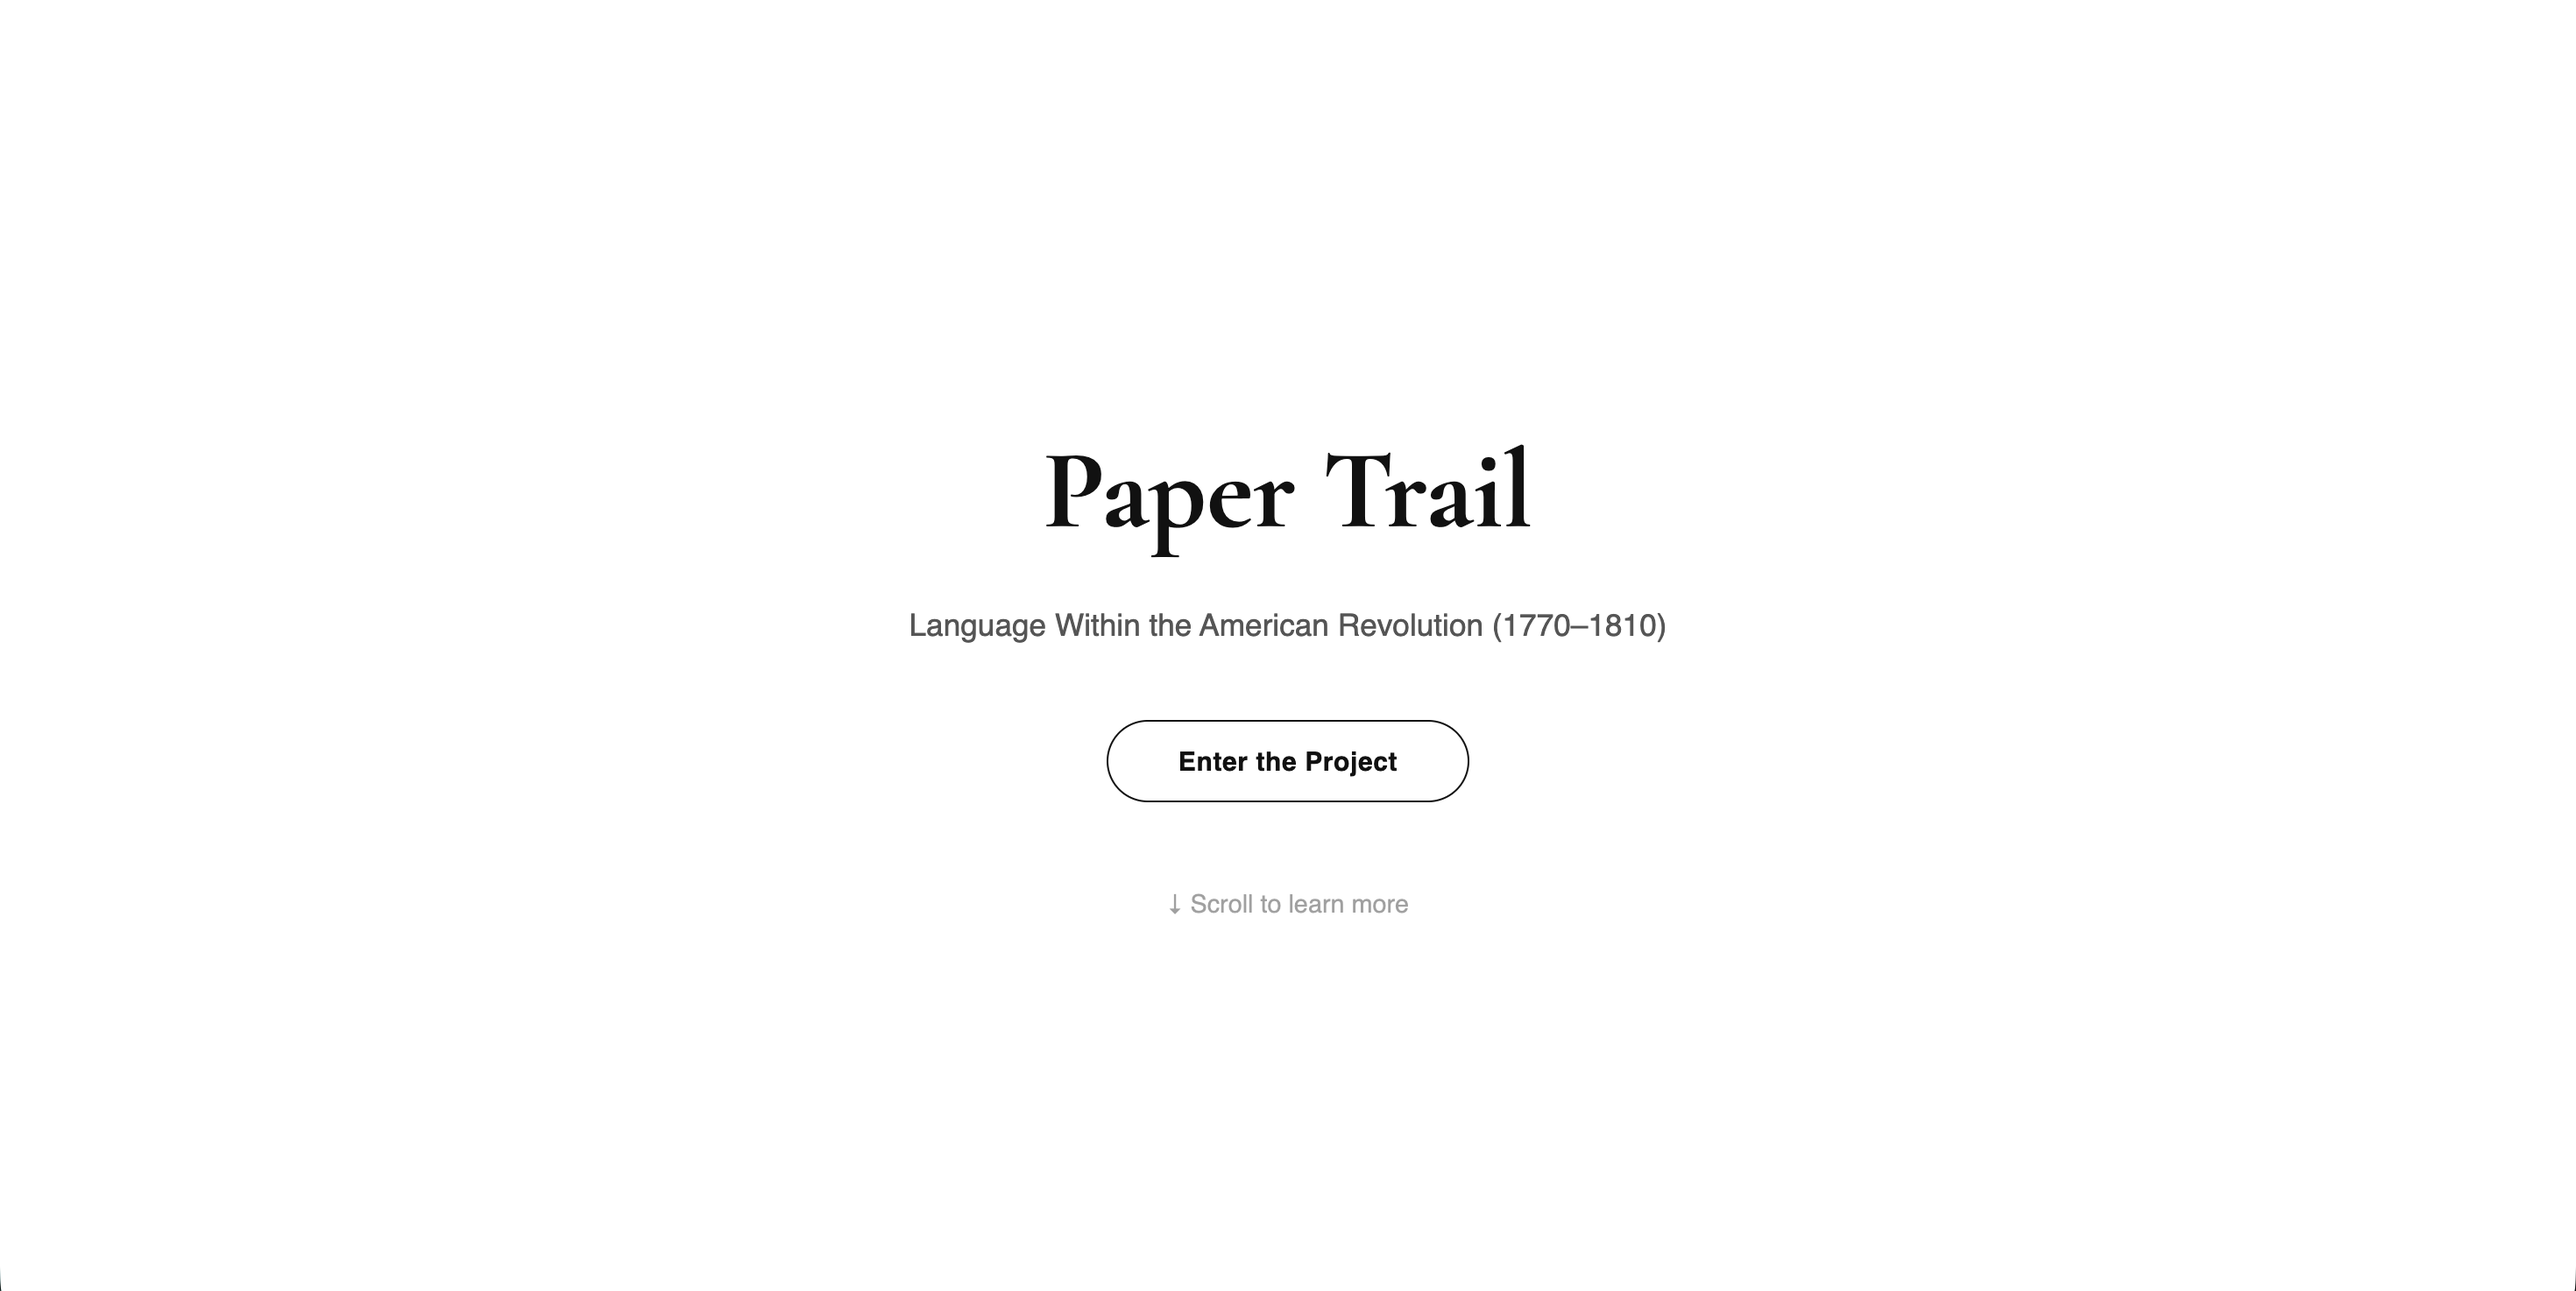
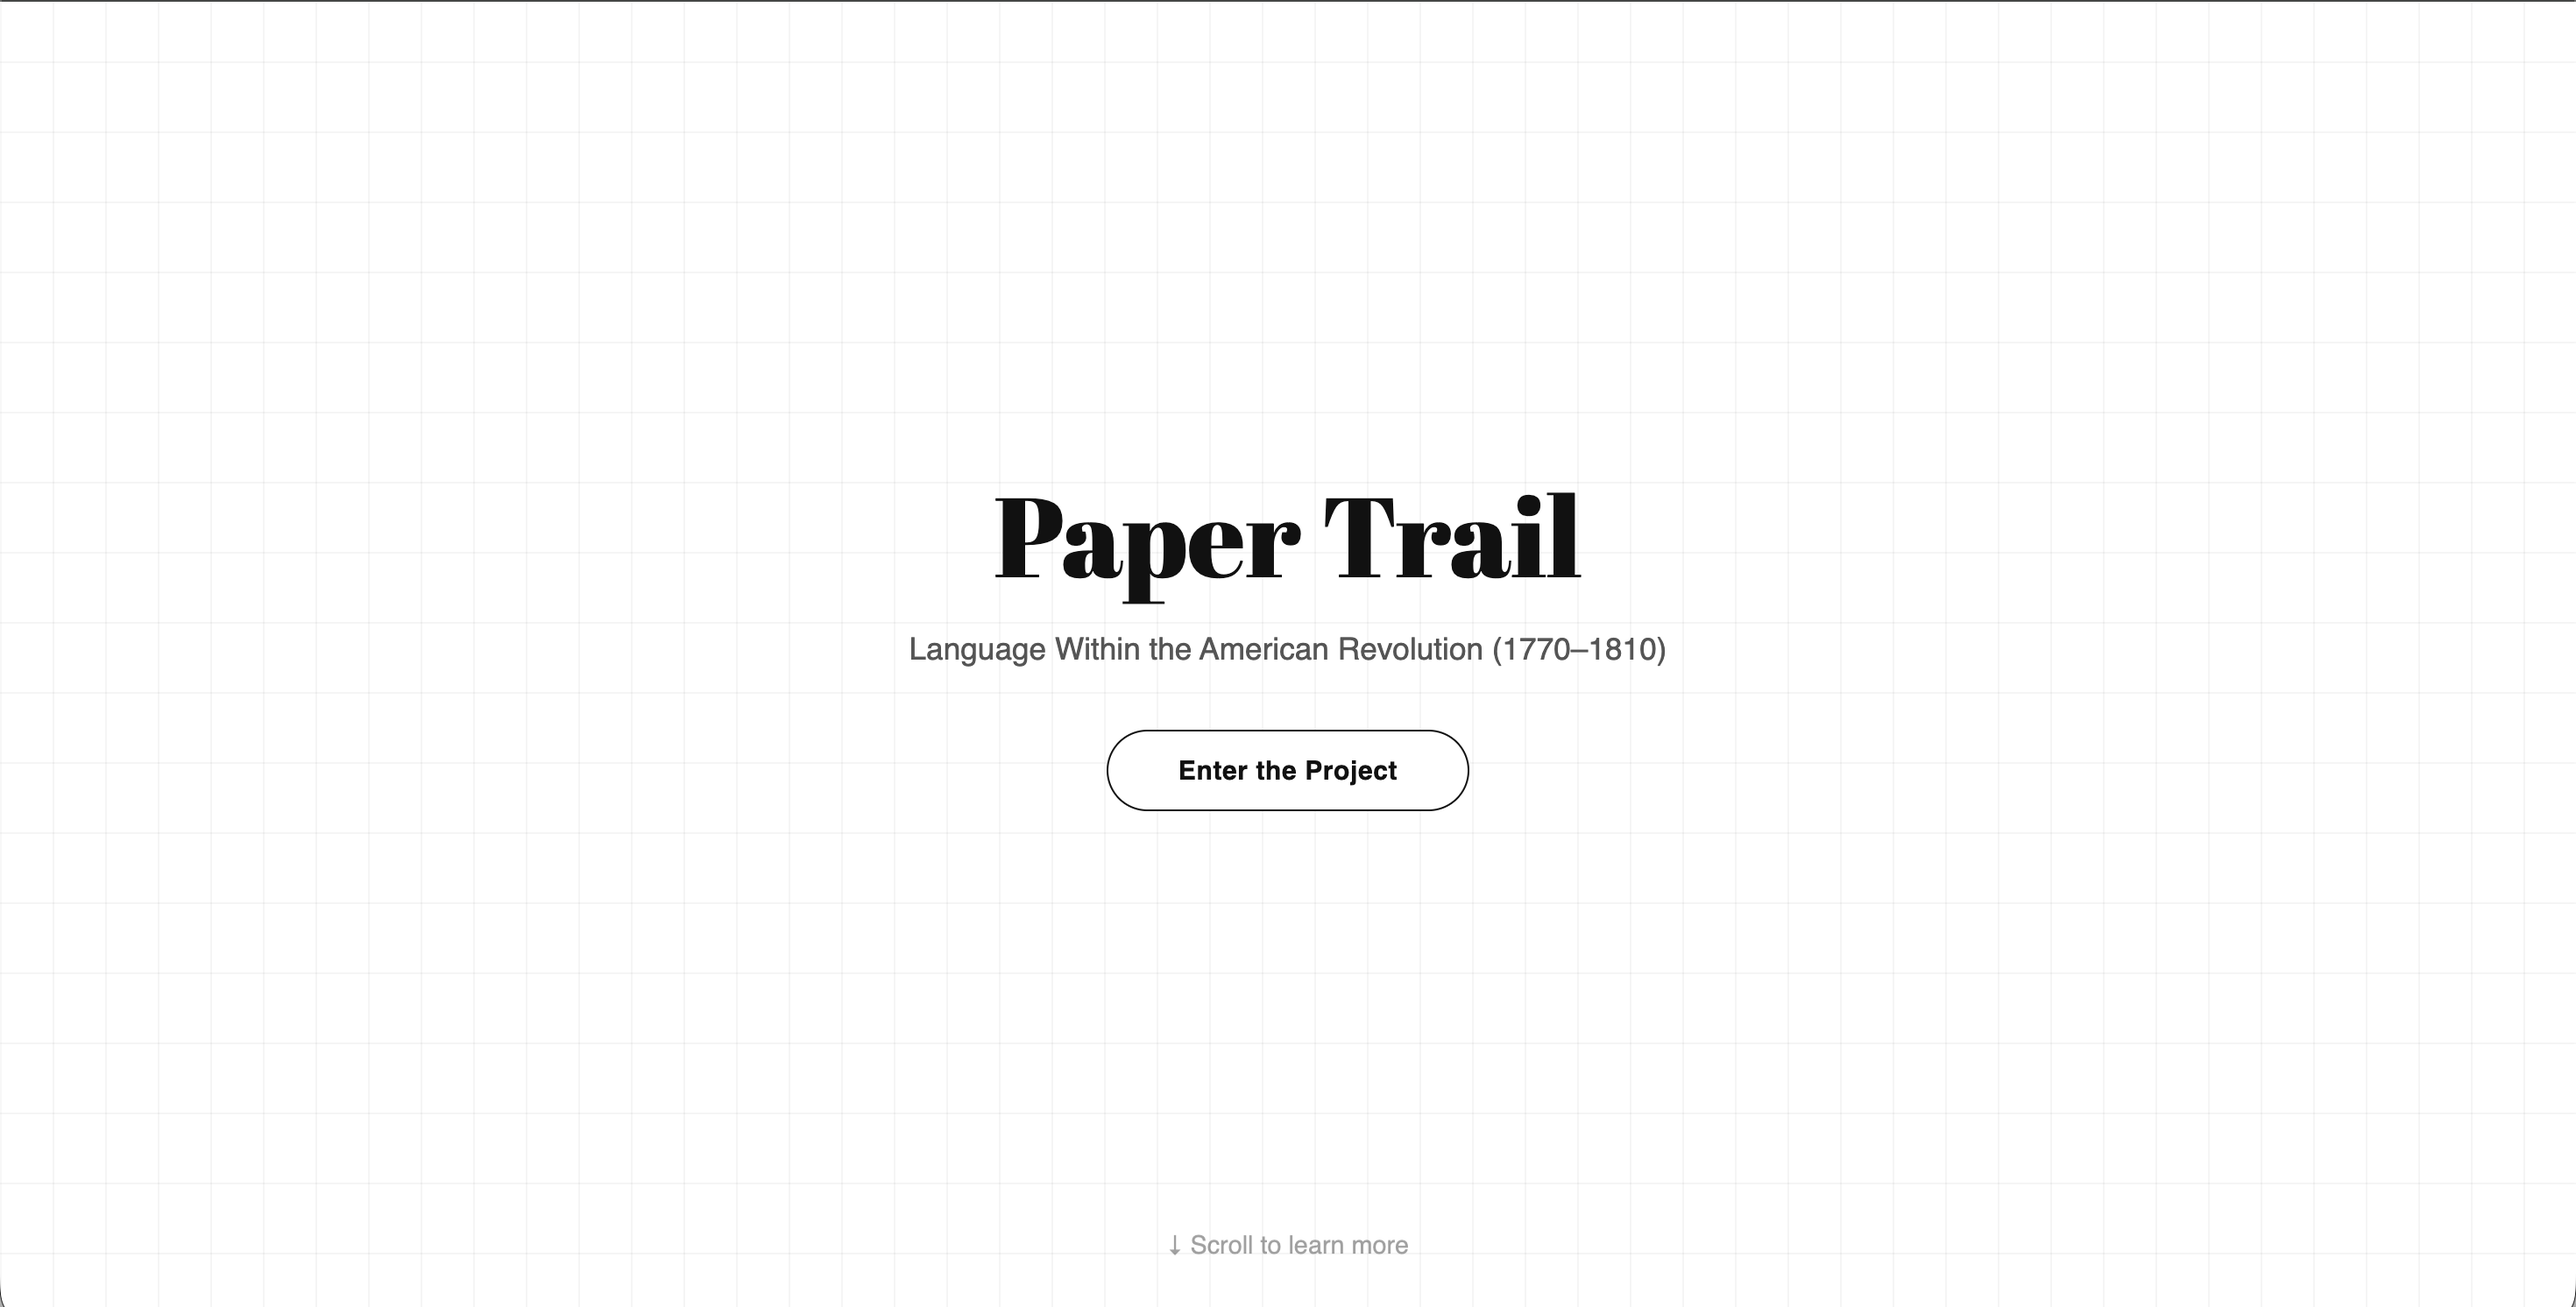
Adding background for Landing Page

diff --git a/docs/index.html b/docs/index.html
@@ -4,6 +4,10 @@
   <meta charset="UTF-8" />
   <title>Paper Trail - Language Within Papers</title>
   <meta name="viewport" content="width=device-width, initial-scale=1" />
+  <!-- Google Fonts -->
+  <link rel="preconnect" href="https://fonts.googleapis.com">
+  <link rel="preconnect" href="https://fonts.gstatic.com" crossorigin>
+  <link href="https://fonts.googleapis.com/css2?family=Abril+Fatface&family=Cormorant+Garamond:ital,wght@0,300..700;1,300..700&display=swap" rel="stylesheet">
   <!-- D3 v7 -->
   <script src="https://cdn.jsdelivr.net/npm/d3@7"></script>
   <link rel="stylesheet" href="main.css" />
@@ -11,8 +15,11 @@
 <body>
 <!-- 🆕 Landing Page -->
   <div id="landing" class="landing">
+    <!-- Minimal grid shadow background -->
+    <div class="grid-shadow"></div>
+    
     <section class="hero">
-      <h1 class="title serif-title">Paper Trail</h1>
+      <h1 class="serif-title">Paper Trail</h1>
       <p class="subtitle">Language Within the American Revolution (1770–1810)</p>
       <button id="btn-explore" class="btn-enter">Enter the Project</button>
       <div class="scroll-cue">↓ Scroll to learn more</div>
@@ -41,7 +48,7 @@
       <button id="btn-enter-from-howto" class="btn-enter" style="margin-top: 1.5rem;">Enter the Project</button>
     </section>
   </div>
-  <!-- 글로벌 툴팁 -->
+  <!-- Global Tooltip -->
   <div id="tooltip" class="tip hidden"></div>
 
   <!-- 🆕 Main view header with subtitle -->
@@ -52,13 +59,13 @@
   </header>
 
   <main class="container">
-    <!-- 좌: 모자이크 -->
+    <!-- Left: Tiles -->
     <section class="mosaic-wrap">
       <div id="mosaic" class="grid"></div>
       <div id="empty" class="empty hidden">No results.</div>
     </section>
 
-    <!-- 우: 패널 (토픽/레전드) -->
+    <!-- Right: Panel (Topic/Legend) -->
     <aside class="panel right">
       <section>
         <h2>Filter by Topic</h2>
@@ -76,11 +83,20 @@
         </div>
         <div id="canon-list" class="canon-list"></div>
       </section>
+      <section class="data">
+        <h2>Data</h2>
+        <h2>
+          <li><a href="https://huggingface.co/datasets/RevolutionCrossroads/si_us_revolutionary_era_collections" target="_blank" rel="noopener">Hugging Face</a></li>
+          <li><a href="https://edan.si.edu/openaccess/apidocs/" target="_blank" rel="noopener">Smithsonian Open Access API</a></li>
+        </h2>
+        </section>
+      
     </aside>
+    
 
   </main>
 
-  <!-- ▼▼▼ Detail Overlay (타일 클릭 시 뜨는 전체 보기) ▼▼▼ -->
+  <!-- ▼▼▼ Detail Overlay (Full view that appears when a tile is clicked) ▼▼▼ -->
   <div id="detail-overlay" class="detail-overlay hidden" role="dialog" aria-modal="true" aria-label="Document detail">
     <div class="detail-card">
       <!-- 🆕 Loading overlay layer (inside card) -->
@@ -88,7 +104,7 @@
         <div class="loading-spinner"></div>
         <p>Loading document...</p>
       </div>
-      <!-- 좌: 이미지/줌 -->
+      <!-- Left: Image/Zoom -->
       <div class="detail-media">
         <div class="media-main">
           <div id="page-indicator" class="page-indicator">1 / 1</div>
@@ -97,12 +113,10 @@
           </div>
         </div>
         <!-- 🆕 Thumbnail Gallery -->
-        <div class="media-thumbnails" id="media-thumbnails">
-          <!-- 썸네일들이 JS로 동적 생성됨 -->
-        </div>
+        <div class="media-thumbnails" id="media-thumbnails"></div>
       </div>
 
-      <!-- 우: 텍스트 -->
+      <!-- Right: Text -->
       <div class="detail-body">
         <div class="detail-topbar">
           <div class="detail-nav">
@@ -115,7 +129,7 @@
         <h3 id="detail-title" class="detail-title">Untitled</h3>
         <div class="detail-meta" id="detail-year"></div>
 
-        <!-- 필드별 섹션 -->
+        <!-- Field Sections -->
         <div class="detail-fields">
           <div id="detail-subject" class="field-section hidden">
             <h4>Subject</h4>
@@ -134,27 +148,19 @@
 
           <!-- Identifiers / Rights / Transcription sections removed per user request (kept in JS guards) -->
         </div>
-        <!-- 토픽 믹스 -->
+        <!-- Topics mix -->
         <div class="detail-bars">
           <h4>Topics mix</h4>
           <div id="detail-bars-wrap"></div>
         </div>
 
-        <!-- 메인 설명 -->
+        <!-- Main Description -->
         <div id="detail-desc" class="detail-desc"></div>
 
       </div>
     </div>
   </div>
   <!-- ▲▲▲ Detail Overlay ▲▲▲ -->
-
-  <footer class="app-footer">
-    <small>
-      <b>Data Sources:</b> 
-      <a href="https://huggingface.co/datasets/RevolutionCrossroads/si_us_revolutionary_era_collections" target="_blank" rel="noopener">Hugging Face Dataset</a> • 
-      <a href="https://edan.si.edu/openaccess/apidocs/" target="_blank" rel="noopener">Smithsonian Open Access API</a>
-    </small>
-  </footer>
 
   <script src="main.js"></script>
 </body>

diff --git a/docs/main.css b/docs/main.css
@@ -21,15 +21,21 @@
 }
 
 *{box-sizing:border-box}
-html,body{height:100%}
+html,body{height:100%; overflow:hidden;}
 body{
   margin:0; background:#ffffff; color:#2c2c2c;
   font:14px/1.45 system-ui, -apple-system, Segoe UI, Roboto, Noto Sans, Helvetica, Arial, sans-serif;
+  display: flex;
+  flex-direction: column;
 }
 
 .serif-title {
-  font-family: "Cormorant Garamond", "Iowan Old Style", Georgia, serif;
-  font-weight: 600;
+  font-family: "Abril Fatface", serif;
+  font-weight: 300;
+  font-style: normal;
+  font-size: 4rem;
+  margin: 0;
+  line-height: 1.1;
 }
 
 
@@ -123,7 +129,8 @@ body{
 /* Layout */
 .container{
   display:flex; flex-direction:row;
-  min-height: calc(100vh - 60px);
+  flex: 1;
+  min-height: 0;
 }
 .mosaic-wrap{
   flex:1; position:relative; padding:16px; overflow:auto;
@@ -133,6 +140,7 @@ body{
   padding: 16px; 
   width: 320px;
   background:var(--panel); border-left:1px solid var(--border);
+  overflow: auto;
 }
 
 /* 툴팁 */
@@ -364,9 +372,6 @@ body{
 .stats-bar span { margin: 0 16px; }
 .stats-bar strong { font-weight: 600; color: #333; }
 
-.app-footer{
-  border-top:1px solid var(--border); padding:10px 20px; color:var(--muted);
-}
 
 /* ===== Detail Overlay ===== */
 .detail-overlay{
@@ -381,7 +386,7 @@ body{
 .detail-loading {
   position: absolute;
   inset: 0;
-  z-index: 10;
+  z-index: 100;
   display: flex;
   flex-direction: column;
   align-items: center;
@@ -586,6 +591,11 @@ body{
   font-size: 12px;
   font-weight: 500;
   z-index: 10;
+  display: none;
+}
+
+.page-indicator:not(:empty) {
+  display: block;
 }
 
 /* 우측 본문 */
@@ -721,7 +731,7 @@ body{
   text-decoration: underline;
 }
 
-/* 토픽 막대 */
+/* Topics mix */
 .detail-bars h4{ margin:8px 0 4px; font-size:13px; color:#666; }
 #detail-bars-wrap{ display:flex; flex-direction:column; gap:6px; }
 .detail-bar{ display:flex; align-items:center; gap:8px; }
@@ -814,7 +824,32 @@ body{
   display: block;
 }
 
+/* Minimal grid shadow background */
+.grid-shadow {
+  position: fixed;
+  inset: 0;
+  pointer-events: none;
+  z-index: 0;
+  background-image:
+    repeating-linear-gradient(
+      0deg,
+      rgba(0, 0, 0, 0.04) 0px,
+      rgba(0, 0, 0, 0.04) 1px,
+      transparent 1px,
+      transparent 40px
+    ),
+    repeating-linear-gradient(
+      90deg,
+      rgba(0, 0, 0, 0.04) 0px,
+      rgba(0, 0, 0, 0.04) 1px,
+      transparent 1px,
+      transparent 30px
+    );
+}
+
 .landing section {
+  position: relative;
+  z-index: 1;
   height: 100vh;
   display: flex;
   flex-direction: column;
@@ -841,7 +876,7 @@ body{
   font-size: 1.1rem;
   color: #555;
   max-width: 500px;
-  margin: 1rem auto 2.5rem;
+  margin: 1rem 0 2rem 0;
 }
 
 /* Enter button in hero */
@@ -872,6 +907,8 @@ body{
   font-size: 0.9rem;
   opacity: 0.4;
   animation: float 2s ease-in-out infinite;
+  position: fixed;
+  bottom: 40px;
 }
 @keyframes float { 0%,100%{transform:translateY(0);}50%{transform:translateY(8px);} }
 
